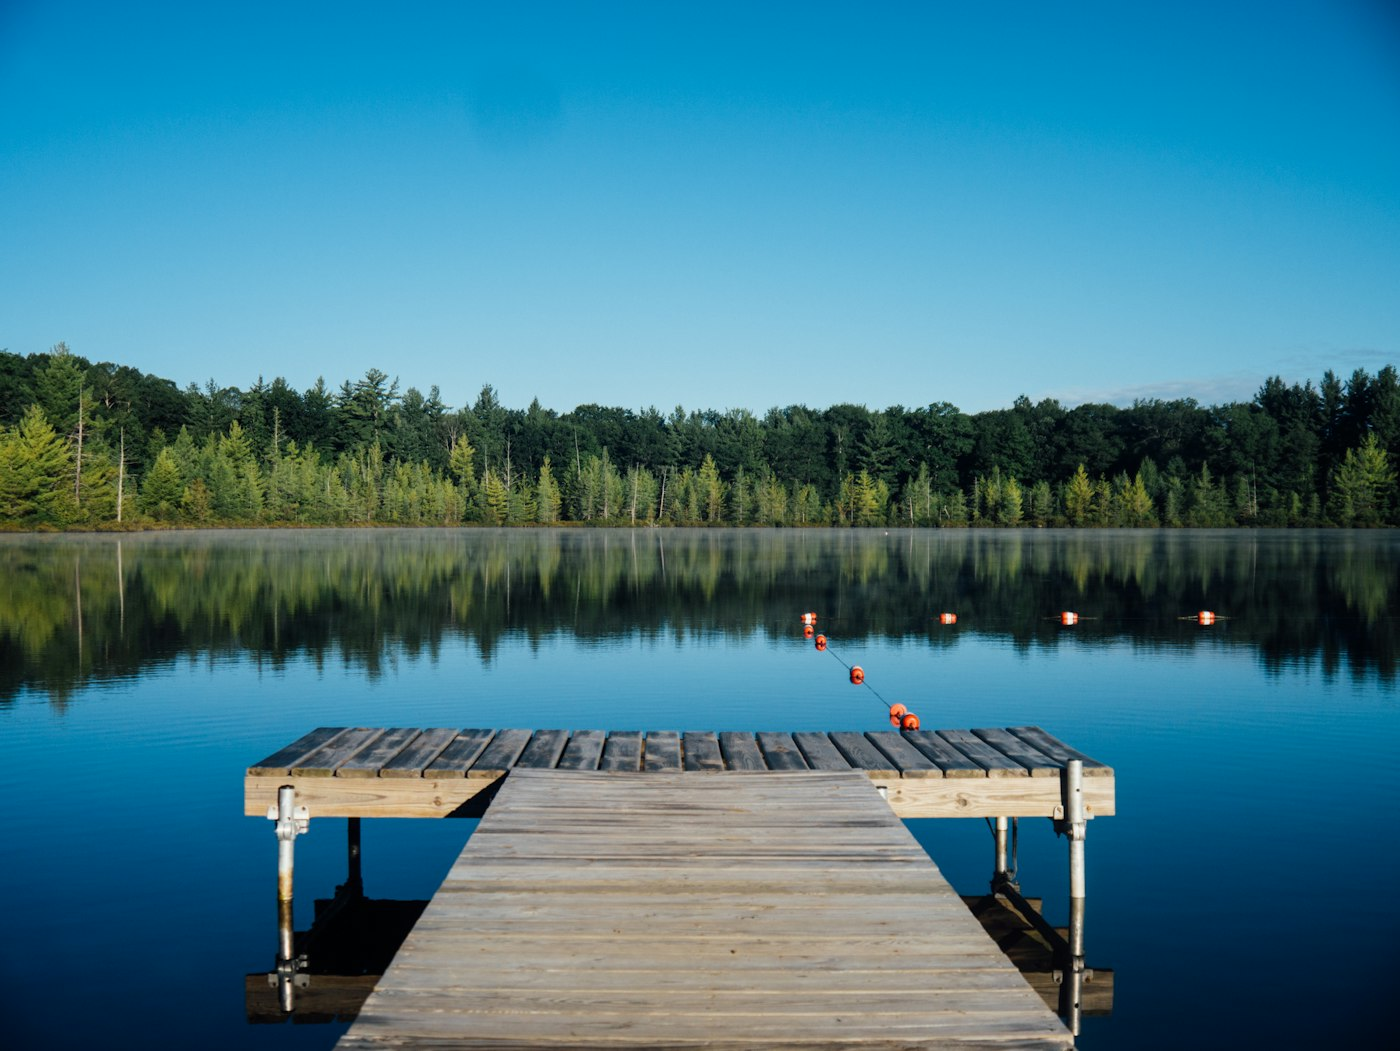
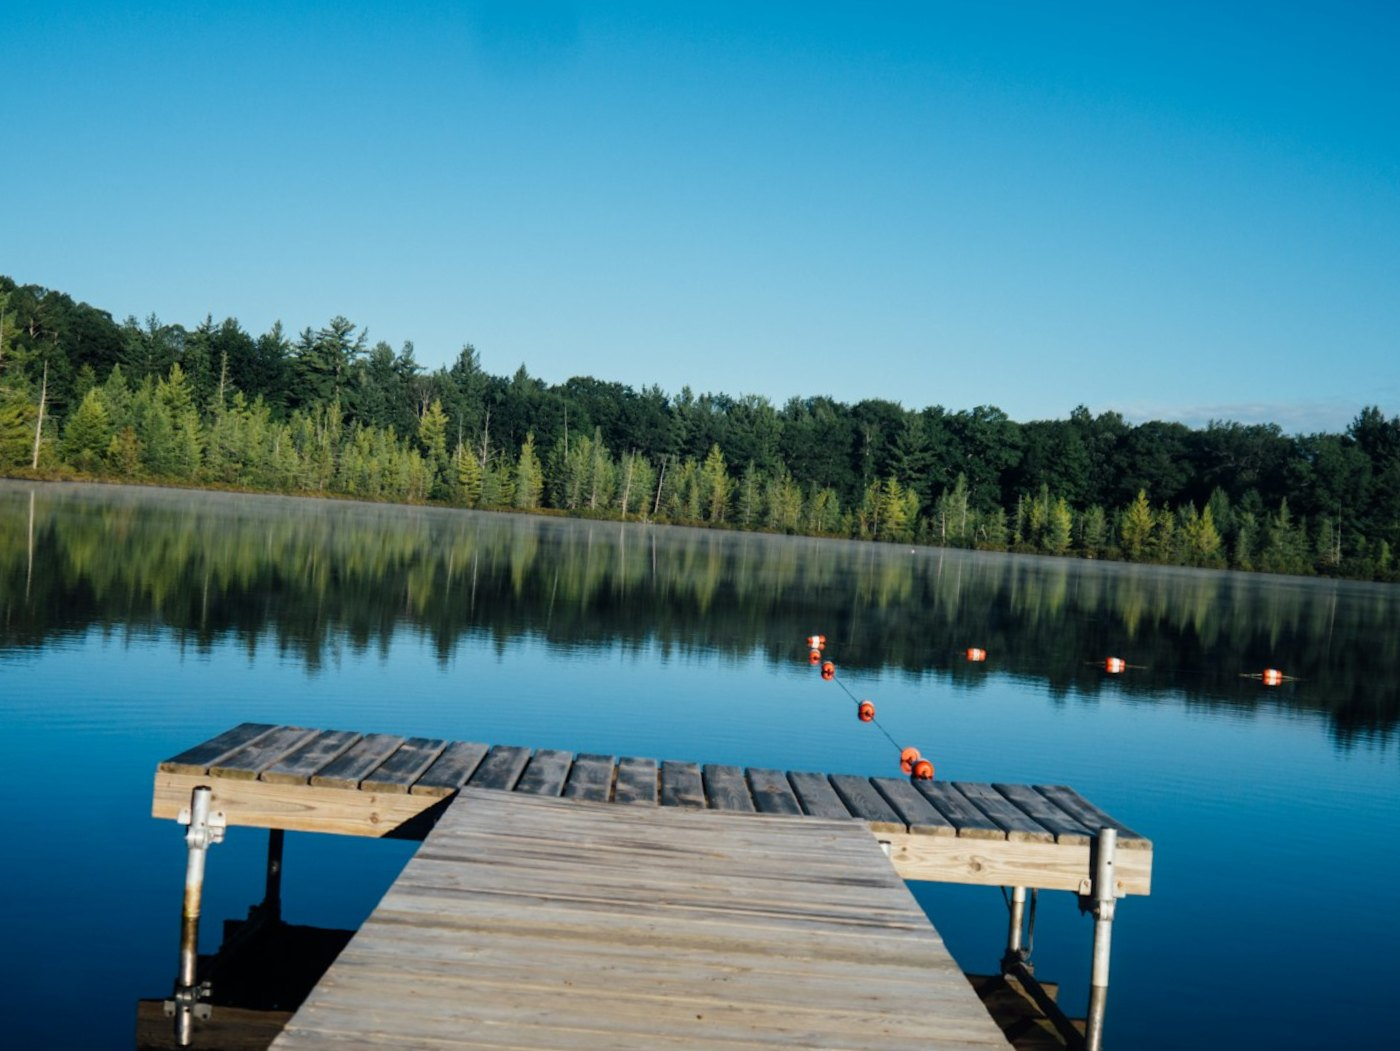
feat(photo): 本地算法自动摆正(Radon 检测主导水平线)+ 旋转自动裁切
- 视觉模型估角度不可靠(实测 4.5° 只判成 0.3°)→ 新增本地 Radon/Hough 摆正检测:
  只保留近水平强边缘、按 horiz^2 压制竖直线,对 ±10° 求投影能量峰值,
  与中位角比较定显著度(阈值 1.25)避免误判
- 上传/一键构图时自动应用摆正角;工具栏新增「自动摆正」按钮
- 旋转后按 straightenZoom 自动放大裁切,不再露出空角(预览/对比/导出共用)
- 示例「湖面倒影」改为地平线倾斜版本,便于体验摆正

diff --git a/web/src/lib/straighten.ts b/web/src/lib/straighten.ts
@@ -1,0 +1,102 @@
+import { fitWithin, renderStraightened } from './imageOps.js'
+
+/**
+ * 自动摆正:在浏览器里估「画面整体倾斜角」。
+ *
+ * 为什么不用视觉模型:大模型对**角度**估计很不准(实测把 4.5° 的倾斜只判成 0.3°)。
+ * 角度是纯几何问题,交给算法更靠谱 —— 这里用**受限 Radon/Hough**:
+ *  1. 缩小到 ~360px,转灰度,求 Sobel 梯度;
+ *  2. 只保留「方向接近水平」的强边缘(梯度竖直 ⇒ 地平线 / 桌沿 / 建筑腰线),
+ *     并按 `horiz²` 加权,压制柱子、楼角这类竖直边缘;
+ *  3. 对 ±MAX_ANGLE 内每 0.2° 的候选角 δ,把边缘点按法线方向
+ *     ρ = Y·cosδ − X·sinδ 投影成一维直方图;线越「聚成一条细线」,峰值越高;
+ *  4. 峰值最高的 δ 就是画面主导倾斜角,回正角 = −δ。
+ */
+export interface TiltResult {
+  /** 建议施加的旋转角(度);直接可给 `rotate` 用 */
+  angle: number
+  /** 0~1,峰值显著性;太低说明没有可靠主导线,别信这个角 */
+  confidence: number
+}
+
+const MAX_ANGLE = 10
+const STEP = 0.2
+const BIN_PX = 2
+/** 峰值能量至少要比中位角高这么多倍,才认为「存在主导水平线」 */
+const MIN_RATIO = 1.25
+/** 小于这个角度就当作已经水平(避免抖动) */
+const MIN_ANGLE = 0.25
+
+export function detectTilt(img: HTMLImageElement, maxSide = 360): TiltResult {
+  const { w, h } = fitWithin(img.naturalWidth, img.naturalHeight, maxSide, maxSide)
+  if (w < 24 || h < 24) return { angle: 0, confidence: 0 }
+
+  const geom = renderStraightened(img, 0, w, h)
+  const ctx = geom.getContext('2d', { willReadFrequently: true })
+  if (!ctx) return { angle: 0, confidence: 0 }
+  const data = ctx.getImageData(0, 0, w, h).data
+
+  const gray = new Float32Array(w * h)
+  for (let i = 0, p = 0; i < gray.length; i++, p += 4) {
+    gray[i] = (0.2126 * data[p] + 0.7152 * data[p + 1] + 0.0722 * data[p + 2]) / 255
+  }
+
+  const px: number[] = []
+  const py: number[] = []
+  const pw: number[] = []
+  const cx = w / 2
+  const cy = h / 2
+  for (let y = 1; y < h - 1; y++) {
+    for (let x = 1; x < w - 1; x++) {
+      const i = y * w + x
+      const gx = gray[i - 1] - gray[i + 1]
+      const gy = gray[i - w] - gray[i + w]
+      const m = Math.sqrt(gx * gx + gy * gy)
+      if (m < 0.05) continue
+      const horiz = Math.abs(gy) / (Math.abs(gx) + Math.abs(gy) + 1e-6)
+      const wgt = m * horiz * horiz
+      if (wgt < 0.02) continue
+      px.push(x - cx)
+      py.push(y - cy)
+      pw.push(wgt)
+    }
+  }
+  if (px.length < 60) return { angle: 0, confidence: 0 }
+
+  const diag = Math.ceil(Math.sqrt(w * w + h * h) / 2) + BIN_PX
+  const bins = Math.ceil((diag * 2) / BIN_PX) + 1
+  let total = 0
+  for (const v of pw) total += v
+
+  const hist = new Float32Array(bins)
+  const energies: number[] = []
+  const angles: number[] = []
+  const norm = total * total
+  for (let a = -MAX_ANGLE; a <= MAX_ANGLE + 1e-9; a += STEP) {
+    hist.fill(0)
+    const rad = (a * Math.PI) / 180
+    const cd = Math.cos(rad)
+    const sd = Math.sin(rad)
+    for (let k = 0; k < px.length; k++) {
+      const rho = py[k] * cd - px[k] * sd
+      const b = Math.round((rho + diag) / BIN_PX)
+      if (b >= 0 && b < bins) hist[b] += pw[k]
+    }
+    let energy = 0
+    for (let i = 0; i < bins; i++) energy += hist[i] * hist[i]
+    energies.push(energy / norm)
+    angles.push(a)
+  }
+
+  let bi = 0
+  for (let i = 1; i < energies.length; i++) if (energies[i] > energies[bi]) bi = i
+  const sorted = [...energies].sort((x, y) => x - y)
+  const med = sorted[Math.floor(sorted.length / 2)] || 1e-9
+  const ratio = energies[bi] / med
+  const confidence = Math.min(1, Math.max(0, (ratio - 1) / 0.8))
+
+  if (ratio < MIN_RATIO) return { angle: 0, confidence }
+  const angle = -angles[bi]
+  if (Math.abs(angle) < MIN_ANGLE) return { angle: 0, confidence }
+  return { angle: Math.max(-15, Math.min(15, Math.round(angle * 10) / 10)), confidence }
+}

diff --git a/web/src/App.tsx b/web/src/App.tsx
@@ -15,6 +15,7 @@ import { ExportDialog } from './components/ExportDialog.js'
 import { Uploader } from './components/Uploader.js'
 import { SampleGallery } from './components/SampleGallery.js'
 import { detectColorSupport } from './lib/colorPipeline.js'
+import { detectTilt } from './lib/straighten.js'
 
 type Tab = 'compose' | 'adjust' | 'works'
 
@@ -120,7 +121,9 @@ export function App() {
         const { analysis: a } = await api.analyze(dataUrl, width, height)
         setAnalysis(a)
         setCrop(a.crop)
-        setRotate(a.rotate)
+        // 角度交给本地算法(模型估角不准):检出明显倾斜就用它,否则用模型给的
+        const tilt = detectTilt(img)
+        setRotate(tilt.angle !== 0 ? tilt.angle : a.rotate)
         setComposition(a.composition)
         setSubjects(a.subjects)
         setTone(mergeTone(a.tone))
@@ -199,6 +202,13 @@ export function App() {
     setTone(t)
     setAi('success', '已自动调色')
   }, [image, rotate, crop, setAi])
+
+  const runAutoStraighten = useCallback(() => {
+    if (!image) return
+    const t = detectTilt(image)
+    setRotate(t.angle)
+    setAi('success', t.angle !== 0 ? `已摆正 ${t.angle.toFixed(1)}°` : '画面已基本水平')
+  }, [image, setAi])
 
   const runPerfect = useCallback(async () => {
     await runAnalyze()
@@ -305,8 +315,6 @@ export function App() {
   /* ---------------- 渲染 ---------------- */
 
   const hasImage = !!image
-  // AI 检出的倾斜角:优先用 horizon,其次用 rotate(模型给出的整体摆正角)
-  const aiRotate = analysis?.horizon?.angle ?? analysis?.rotate ?? 0
 
   return (
     <div className="app">
@@ -417,11 +425,10 @@ export function App() {
                 <button
                   type="button"
                   className="btn small ghost"
-                  onClick={() => setRotate(aiRotate)}
-                  disabled={!analysis || Math.abs(aiRotate) < 0.05}
-                  title={analysis ? `AI 检出的倾斜角:${aiRotate.toFixed(1)}°,点击一键回正` : '先点「一键构图」,AI 会同时判断并摆正倾斜'}
+                  onClick={runAutoStraighten}
+                  title="本地算法自动检测地平线 / 建筑腰线并回正(比模型估角准)"
                 >
-                  AI 摆正{analysis && Math.abs(aiRotate) >= 0.05 ? ` ${aiRotate > 0 ? '+' : ''}${aiRotate.toFixed(1)}°` : ''}
+                  自动摆正
                 </button>
                 <button type="button" className="btn small ghost" onClick={() => setCrop({ x: 0, y: 0, w: 1, h: 1 })}>
                   重置裁剪

diff --git a/web/src/lib/imageOps.ts b/web/src/lib/imageOps.ts
@@ -53,6 +53,18 @@ export function downscaleDataURL(img: HTMLImageElement, maxSide: number, quality
 
 const rad = (deg: number) => (deg * Math.PI) / 180
 
+/**
+ * 旋转后为不出「空角」需要的放大倍数(绕中心旋转,再把画面撑满原框)。
+ * 例:16:9 画面转 5°,约为 1.12。手机修图 App 的「自动裁切」就是这个。
+ */
+export function straightenZoom(w: number, h: number, deg: number): number {
+  const t = Math.abs(rad(deg))
+  if (t < 1e-4) return 1
+  const c = Math.cos(t)
+  const s = Math.sin(t)
+  return Math.max(c + (h / w) * s, c + (w / h) * s)
+}
+
 /** 摆正后的整幅画面(未裁剪),映射到 outW×outH(保持原图宽高比) */
 export function renderStraightened(img: HTMLImageElement, rotateDeg: number, outW: number, outH: number): HTMLCanvasElement {
   const W = img.naturalWidth
@@ -62,10 +74,12 @@ export function renderStraightened(img: HTMLImageElement, rotateDeg: number, out
   if (!ctx) return c
   ctx.imageSmoothingQuality = 'high'
   const scale = outW / W
+  const z = straightenZoom(W, H, rotateDeg)
   ctx.save()
   ctx.scale(scale, scale)
   ctx.translate(W / 2, H / 2)
   ctx.rotate(rad(rotateDeg))
+  ctx.scale(z, z)
   ctx.translate(-W / 2, -H / 2)
   ctx.drawImage(img, 0, 0, W, H)
   ctx.restore()
@@ -84,11 +98,13 @@ export function renderCrop(img: HTMLImageElement, rotateDeg: number, crop: CropR
   if (!ctx) return c
   ctx.imageSmoothingQuality = 'high'
   const scale = outW / sw
+  const z = straightenZoom(W, H, rotateDeg)
   ctx.save()
   ctx.scale(scale, scale)
   ctx.translate(-sx, -sy)
   ctx.translate(W / 2, H / 2)
   ctx.rotate(rad(rotateDeg))
+  ctx.scale(z, z)
   ctx.translate(-W / 2, -H / 2)
   ctx.drawImage(img, 0, 0, W, H)
   ctx.restore()

diff --git a/web/src/lib/samples.ts b/web/src/lib/samples.ts
@@ -20,7 +20,7 @@ export interface SamplePhoto {
 export const SAMPLE_PHOTOS: SamplePhoto[] = [
   { id: 'sunset', name: '落日星芒', issue: '逆光、高光溢出、暗部压死', file: '/samples/sunset.jpg', thumb: '/samples/thumb/sunset.jpg' },
   { id: 'forest', name: '林地小径', issue: '低对比、偏冷、氛围发闷', file: '/samples/forest.jpg', thumb: '/samples/thumb/forest.jpg' },
-  { id: 'lake', name: '湖面倒影', issue: '薄雾发灰、通透度不足', file: '/samples/lake.jpg', thumb: '/samples/thumb/lake.jpg' },
+  { id: 'lake', name: '湖面倒影', issue: '地平线倾斜、需智能摆正 + 发灰', file: '/samples/lake.jpg', thumb: '/samples/thumb/lake.jpg' },
   { id: 'city-night', name: '城市夜色', issue: '夜景噪点、白平衡偏色', file: '/samples/city-night.jpg', thumb: '/samples/thumb/city-night.jpg' },
   { id: 'milkyway', name: '银河山峰', issue: '极暗、噪点重、暗部死黑', file: '/samples/milkyway.jpg', thumb: '/samples/thumb/milkyway.jpg' },
   { id: 'portrait', name: '人物肖像', issue: '肤色发灰、高光需保护', file: '/samples/portrait.jpg', thumb: '/samples/thumb/portrait.jpg' },
